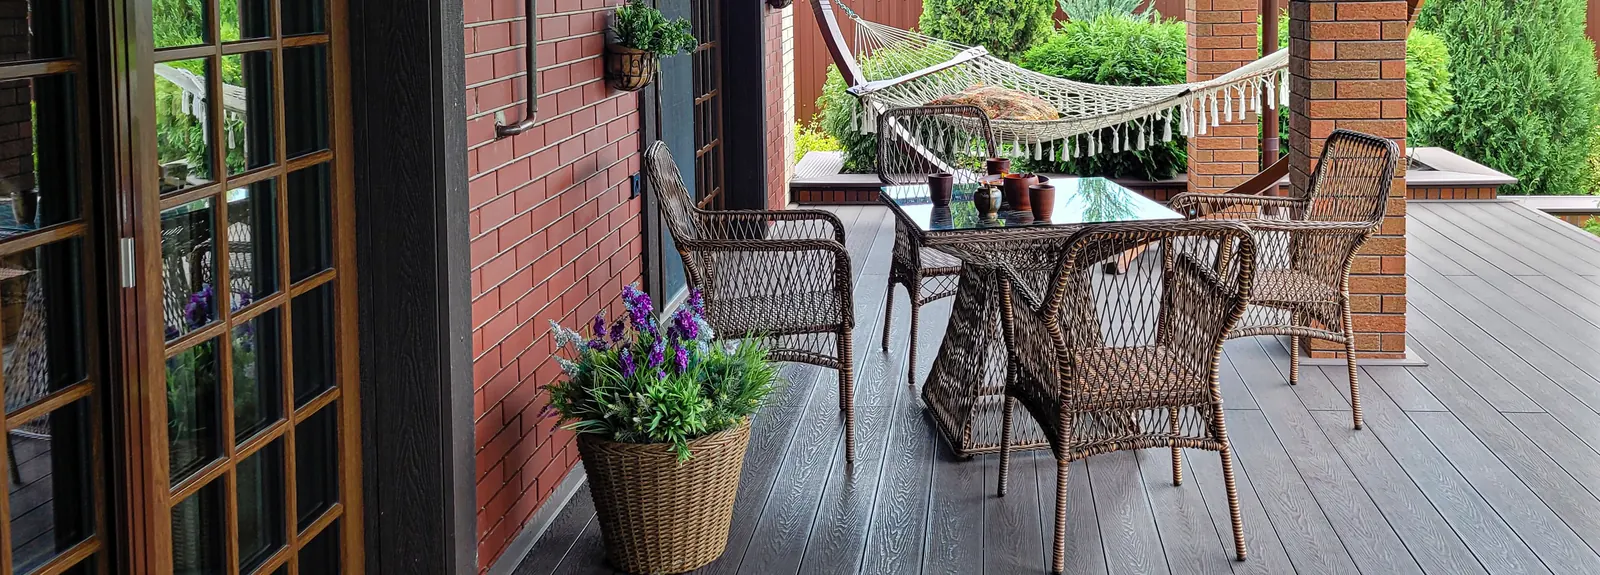
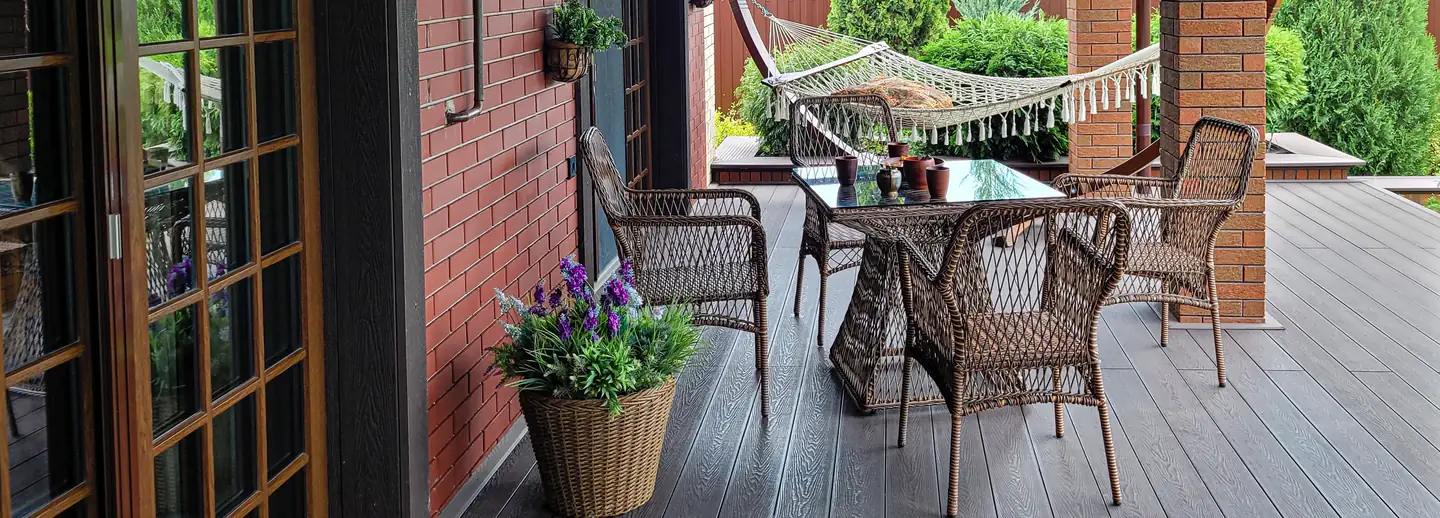
Главная: обложка легче — 1440 точек, 156 КБ

diff --git a/local/templates/aspro_next_newdesign/include/mainpage/cover_mainpage.php b/local/templates/aspro_next_newdesign/include/mainpage/cover_mainpage.php
@@ -14,12 +14,12 @@ $ndIncDir = SITE_DIR.'include/newdesign/mainpage/';
 <section class="nd-cover">
 	<div class="nd-cover__card">
 		<?/* Фото обложки с 25.09.2026 — терраса с плетёной мебелью и гамаком
-		     (исходник 3524×1267, ужат до 1600 — 227 КБ). Прежние лежат рядом:
+		     (исходник 3524×1267, ужат до 1440 — 156 КБ, как прежняя обложка). Прежние лежат рядом:
 		     cover_main.webp (2004×720, было до 25.09), cover_main_20260925.webp
 		     (терраса с диваном) и cover_main_20260925b.webp (это же фото, 1334). */?>
 		<img class="nd-cover__img"
-		     src="<?=SITE_TEMPLATE_PATH?>/images/newdesign/cover_main_2026.webp"
-		     alt="Терраса с настилом, ограждениями и фасадом из ДПК Латитудо" width="1600" height="575">
+		     src="<?=SITE_TEMPLATE_PATH?>/images/newdesign/cover_main_2026.webp?v=2"
+		     alt="Терраса с настилом, ограждениями и фасадом из ДПК Латитудо" width="1440" height="518">
 		<div class="nd-cover__content"><?
 			$APPLICATION->IncludeFile(
 				$ndIncDir.'cover_text.php',
